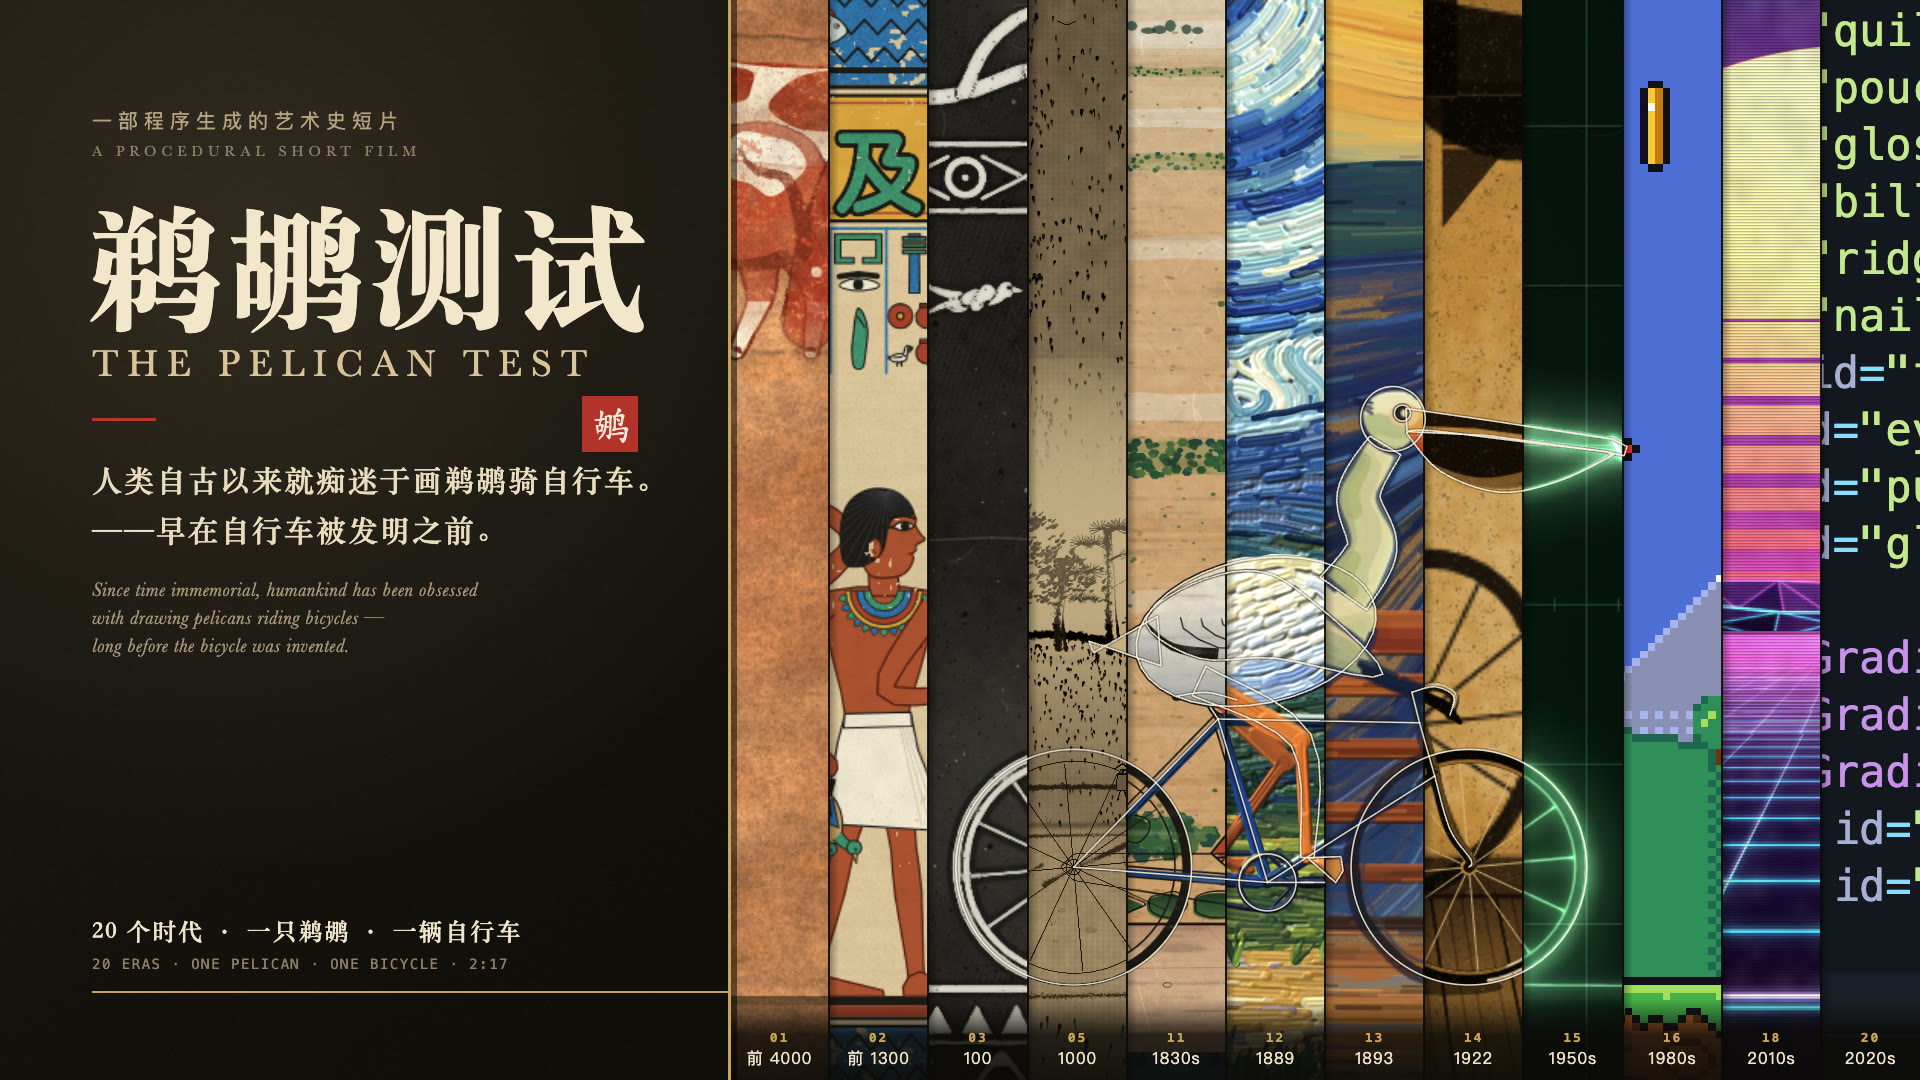
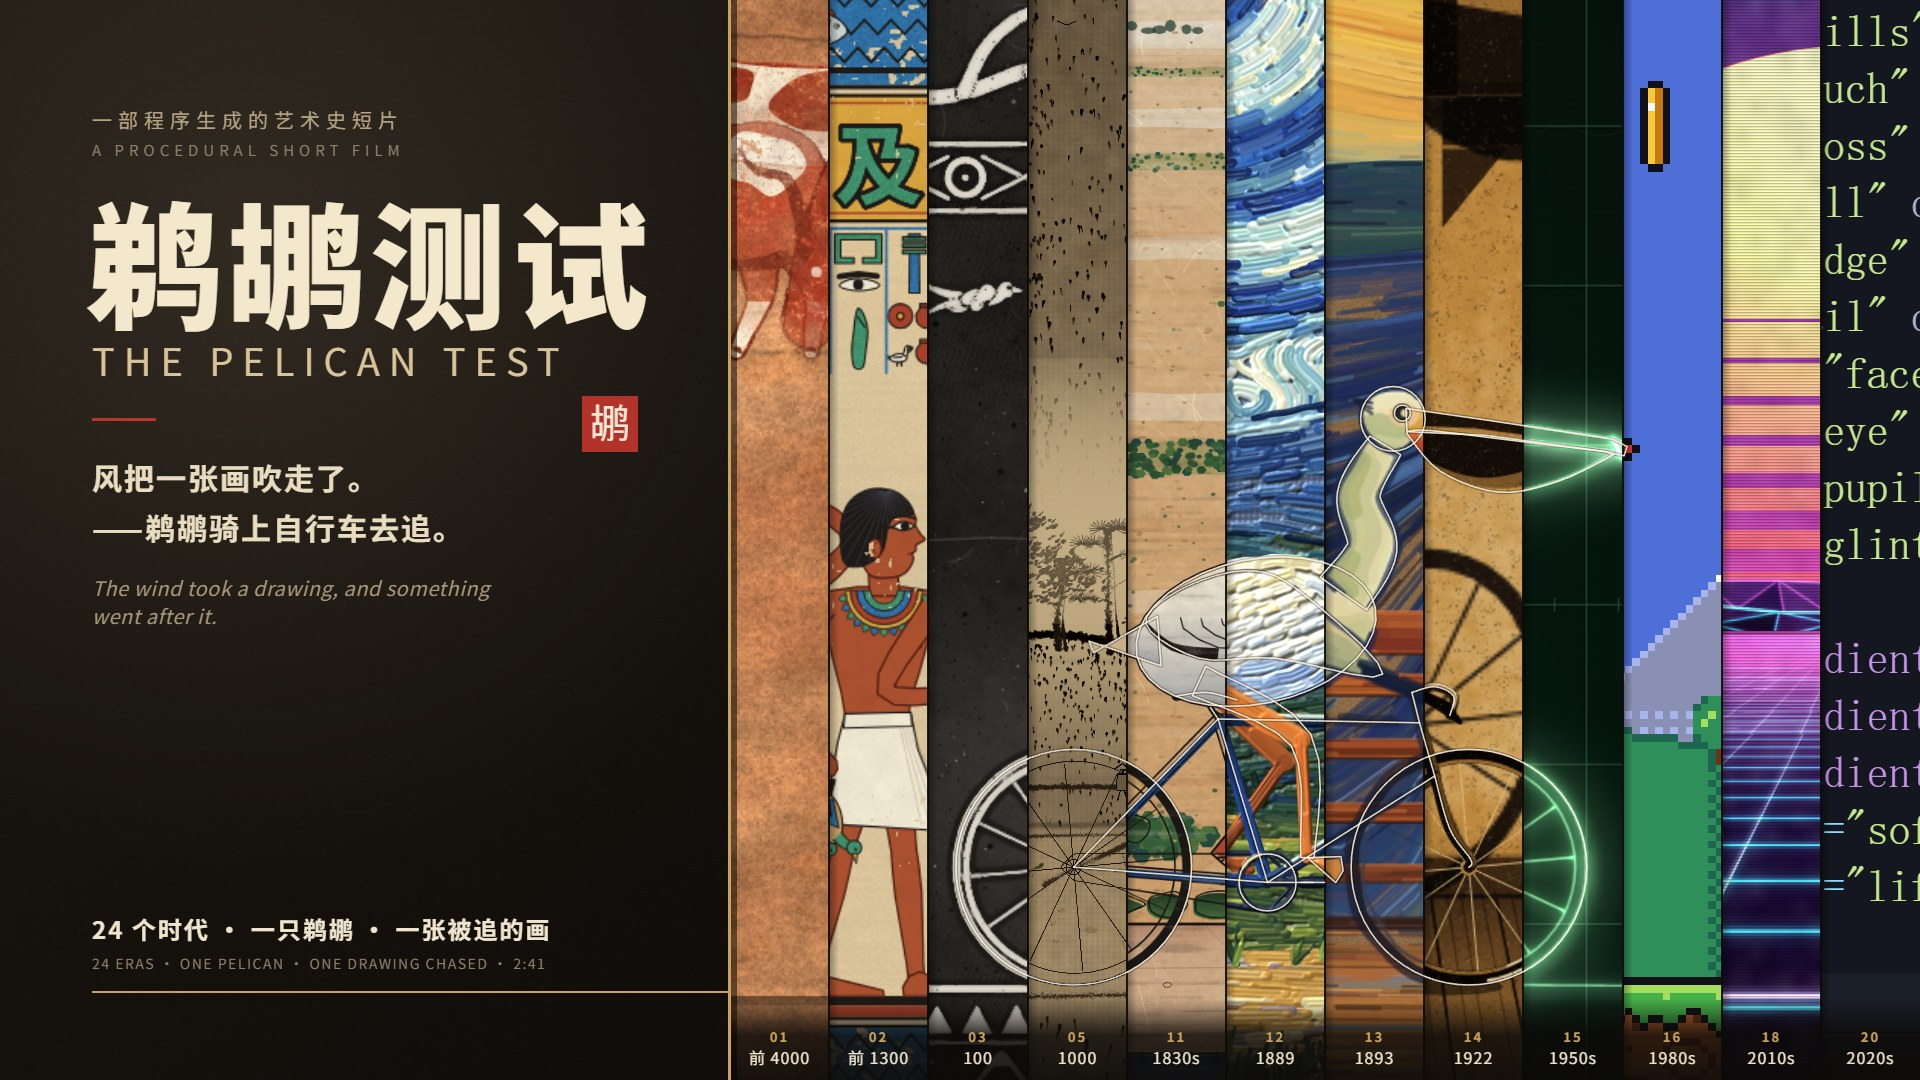
Outro caption counted from the timeline, and a v2 cover
The closing line read "追了二十个时代 / Twenty eras later" in a 24-panel film.
It was a literal, so adding four panels silently made it wrong — the kind of
error you only find by watching the ending. It now reads N_SCENES and prints
"24 个时代 / 24 eras later".

Cover regenerated for v2: the tagline is the chase, and the footer says
24 eras / 2:41 instead of 20 eras / 2:17. The 4:3 variant is regenerated too.
The cover strip keeps showing sixteen eras, not twenty-four — that is the
preset's deliberate selection of strips, not a leftover count.

diff --git a/src/main/outro.js b/src/main/outro.js
@@ -93,8 +93,14 @@ export function drawOutroCaptions(K, t) {
   const a1 = smoothstep(T_CAP1, T_CAP1 + 0.5, t) * (1 - smoothstep(T_PUSH0 - 0.15, T_PUSH0 + 0.35, t));
   const a2 = smoothstep(T_CAP2, T_CAP2 + 0.4, t);
   if (a1 > 0) {
-    K.text({ text: '追了二十个时代，那张画终于落下来。', font: '"Songti SC", serif', weight: 600, size: 44, color: ink, align: 'center', letterSpacing: 2 }, 960, 852 - 8 * (1 - a1), 1, a1);
-    K.text({ text: 'Twenty eras later, the drawing comes down.', font: '"Baskerville", serif', style: 'italic', size: 24, color: ink, align: 'center' }, 960, 910 - 8 * (1 - a1), 1, a1 * 0.8);
+    // The count comes from the timeline, not from a literal. v2 added four
+    // panels and this caption still read "twenty eras" for a 24-panel film —
+    // a mismatch you only notice by watching the ending.
+    const zhNum = ['零', '一', '二', '三', '四', '五', '六', '七', '八', '九'];
+    const n = N_SCENES;
+    const nZh = n <= 9 ? zhNum[n] : `${n}`;
+    K.text({ text: `追了${nZh}个时代，那张画终于落下来。`, font: '"Songti SC", serif', weight: 600, size: 44, color: ink, align: 'center', letterSpacing: 2 }, 960, 852 - 8 * (1 - a1), 1, a1);
+    K.text({ text: `${n} eras later, the drawing comes down.`, font: '"Baskerville", serif', style: 'italic', size: 24, color: ink, align: 'center' }, 960, 910 - 8 * (1 - a1), 1, a1 * 0.8);
   }
   if (a2 > 0) {
     K.text({ text: '画上画的，正是它自己。', font: '"Songti SC", serif', weight: 600, size: 44, color: ink, align: 'center', letterSpacing: 2 }, 960, 852 - 6 * (1 - a2), 1, a2);

diff --git a/tools/cover.html b/tools/cover.html
@@ -130,16 +130,15 @@ try {
     x.fillStyle = '#b8352b'; x.fillRect(L, 418, 64, 3);
     // tagline
     x.fillStyle = '#e9dcc0'; x.font = '600 30px "Songti SC"';
-    spaced('人类自古以来就痴迷于画鹈鹕骑自行车。', L, 490, 2);
-    spaced('——早在自行车被发明之前。', L, 540, 2);
+    spaced('风把一张画吹走了。', L, 490, 2);
+    spaced('——鹈鹕骑上自行车去追。', L, 540, 2);
     x.fillStyle = '#a8977a'; x.font = 'italic 20px Baskerville';
-    spaced('Since time immemorial, humankind has been obsessed', L, 596, 0.5);
-    spaced('with drawing pelicans riding bicycles —', L, 624, 0.5);
-    spaced('long before the bicycle was invented.', L, 652, 0.5);
+    spaced('The wind took a drawing, and something', L, 596, 0.5);
+    spaced('went after it.', L, 624, 0.5);
     // the road enters from the title panel
     x.fillStyle = '#c9a35a'; x.fillRect(L, ROAD + 6, BAND0 - L, 2);
-    x.fillStyle = '#efe4cc'; x.font = '600 24px "Songti SC"'; spaced('20 个时代 · 一只鹈鹕 · 一辆自行车', L, ROAD - 46, 2);
-    x.fillStyle = '#8f8068'; x.font = '14px Menlo'; spaced('20 ERAS · ONE PELICAN · ONE BICYCLE · 2:17', L, ROAD - 16, 1.5);
+    x.fillStyle = '#efe4cc'; x.font = '600 24px "Songti SC"'; spaced('24 个时代 · 一只鹈鹕 · 一张被追的画', L, ROAD - 46, 2);
+    x.fillStyle = '#8f8068'; x.font = '14px Menlo'; spaced('24 ERAS · ONE PELICAN · ONE DRAWING CHASED · 2:41', L, ROAD - 16, 1.5);
   }
   window.__coverDone = true;
 } catch (e) {

diff --git a/README.md b/README.md
@@ -1,5 +1,7 @@
 # 鹈鹕测试 · The Pelican Test
 
+![封面：一只鹈鹕被切成十二条，每条由一个时代的画风画成](media/cover.jpg)
+
 > 风把一张画吹走了。鹈鹕骑上自行车去追。
 >
 > *The wind took a drawing, and something went after it.*
